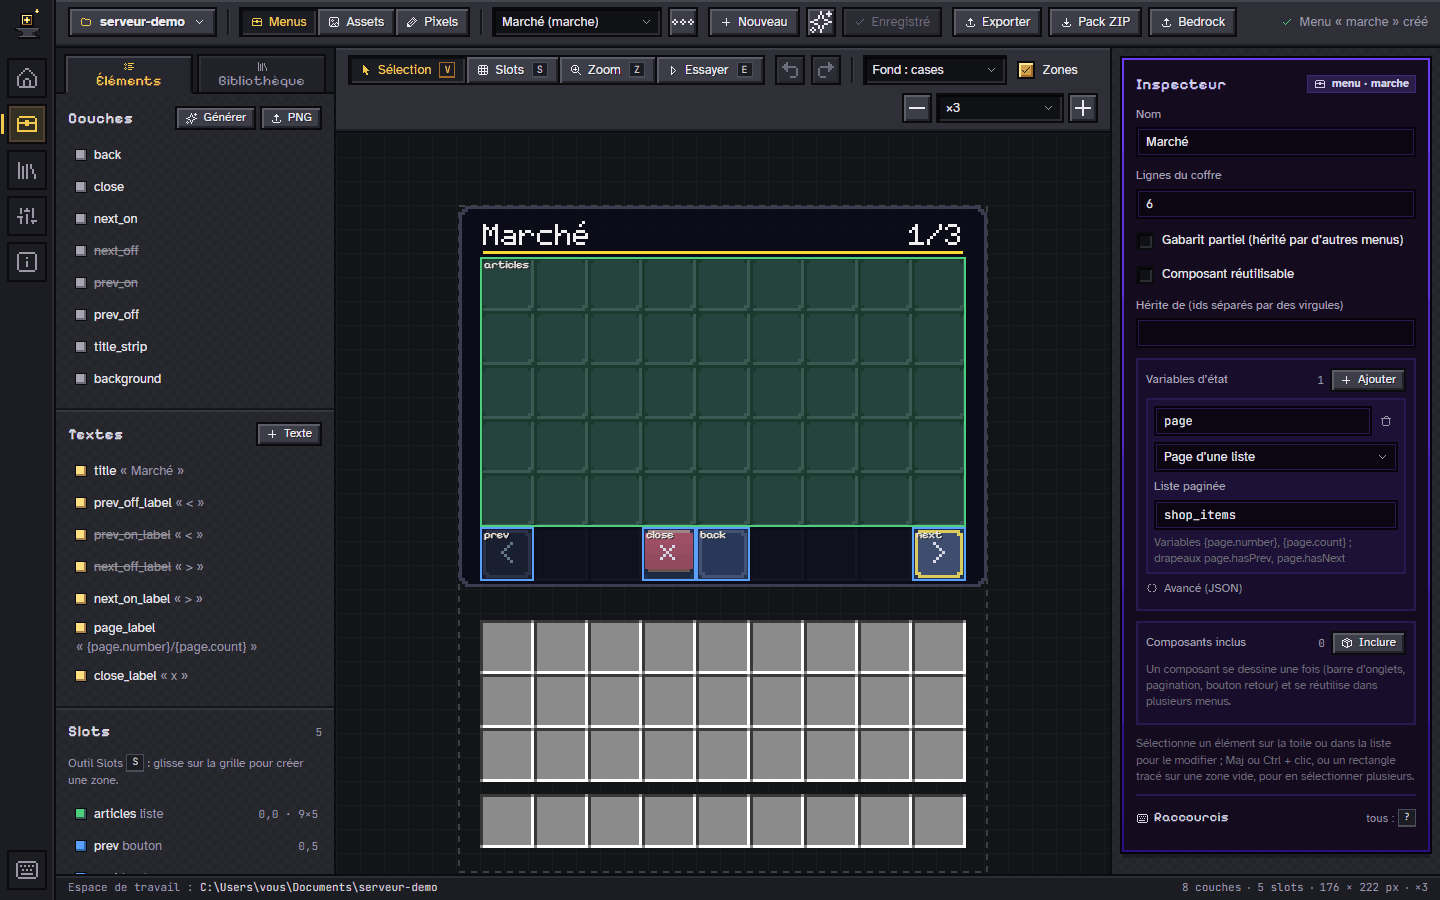
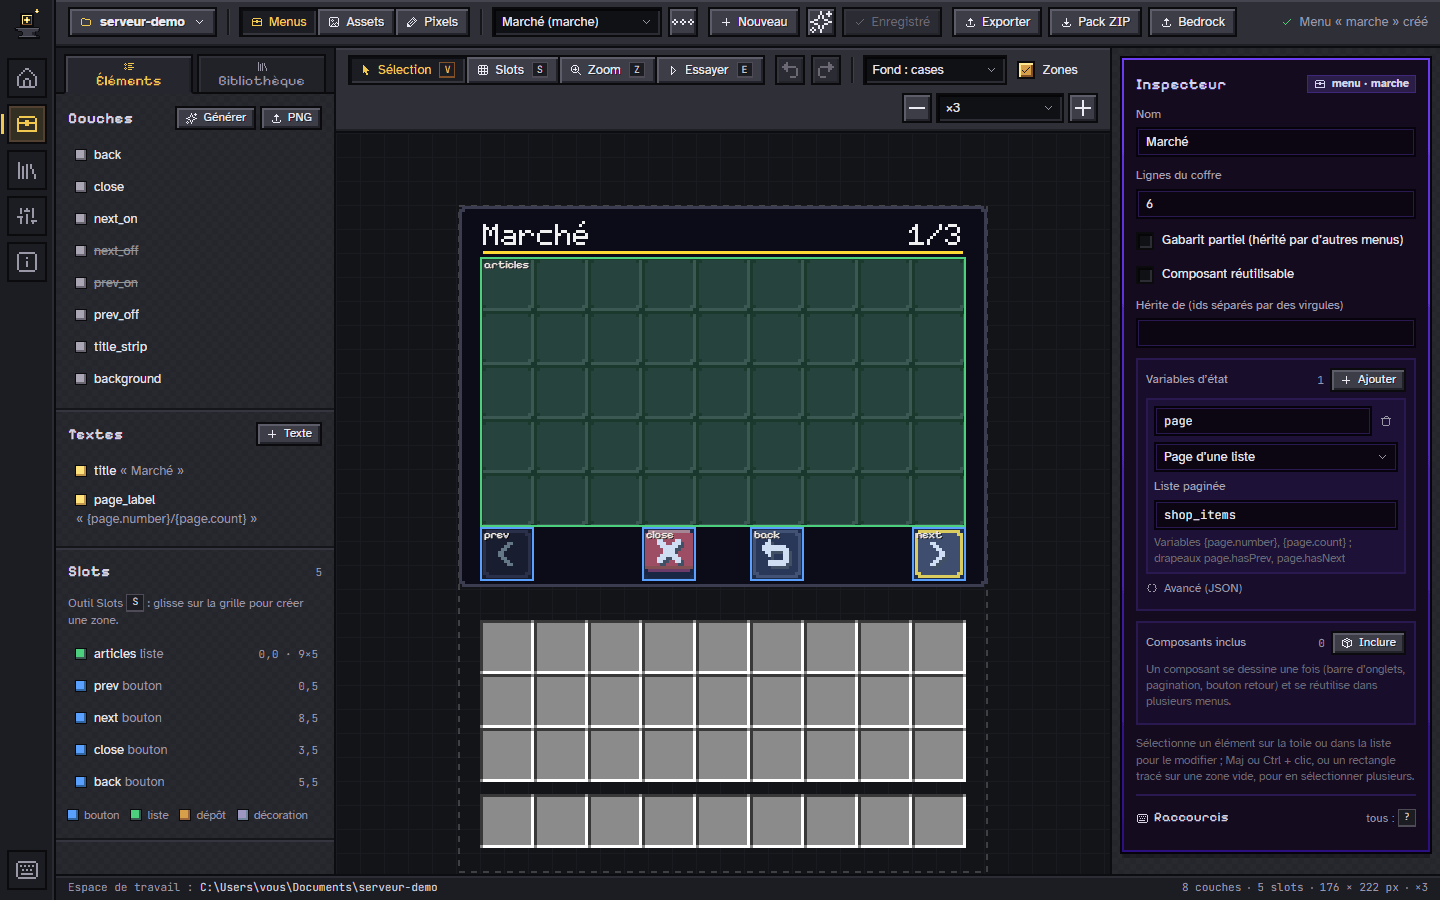
docs(site): Refaire les captures du générateur
Boutique générée, galerie d’exemples et générateur de textures (nouveau
champ « Icône ») après la correction des défauts ; dimensions de la
capture du générateur de textures reprises dans l’accueil.

Changed region(s): [[0.0312, 0.5289, 0.2188, 0.9644], [0.4375, 0.56, 0.5625, 0.6533]]

diff --git a/site/index.html b/site/index.html
@@ -581,7 +581,7 @@
         </li>
         <li>
           <a class="shot" href="assets/screens/texture-generator.png">
-            <span class="shot-media"><img src="assets/screens/texture-generator.png" width="760" height="742" loading="lazy"
+            <span class="shot-media"><img src="assets/screens/texture-generator.png" width="760" height="802" loading="lazy"
               alt="Le générateur de textures&nbsp;: style, taille, couleur et cellules de slots d’un panneau biseauté, avec son aperçu."></span>
             <span class="shot-caption"><strong>Générateur de textures</strong> Un panneau biseauté et ses cellules, en quelques champs.</span>
           </a>
